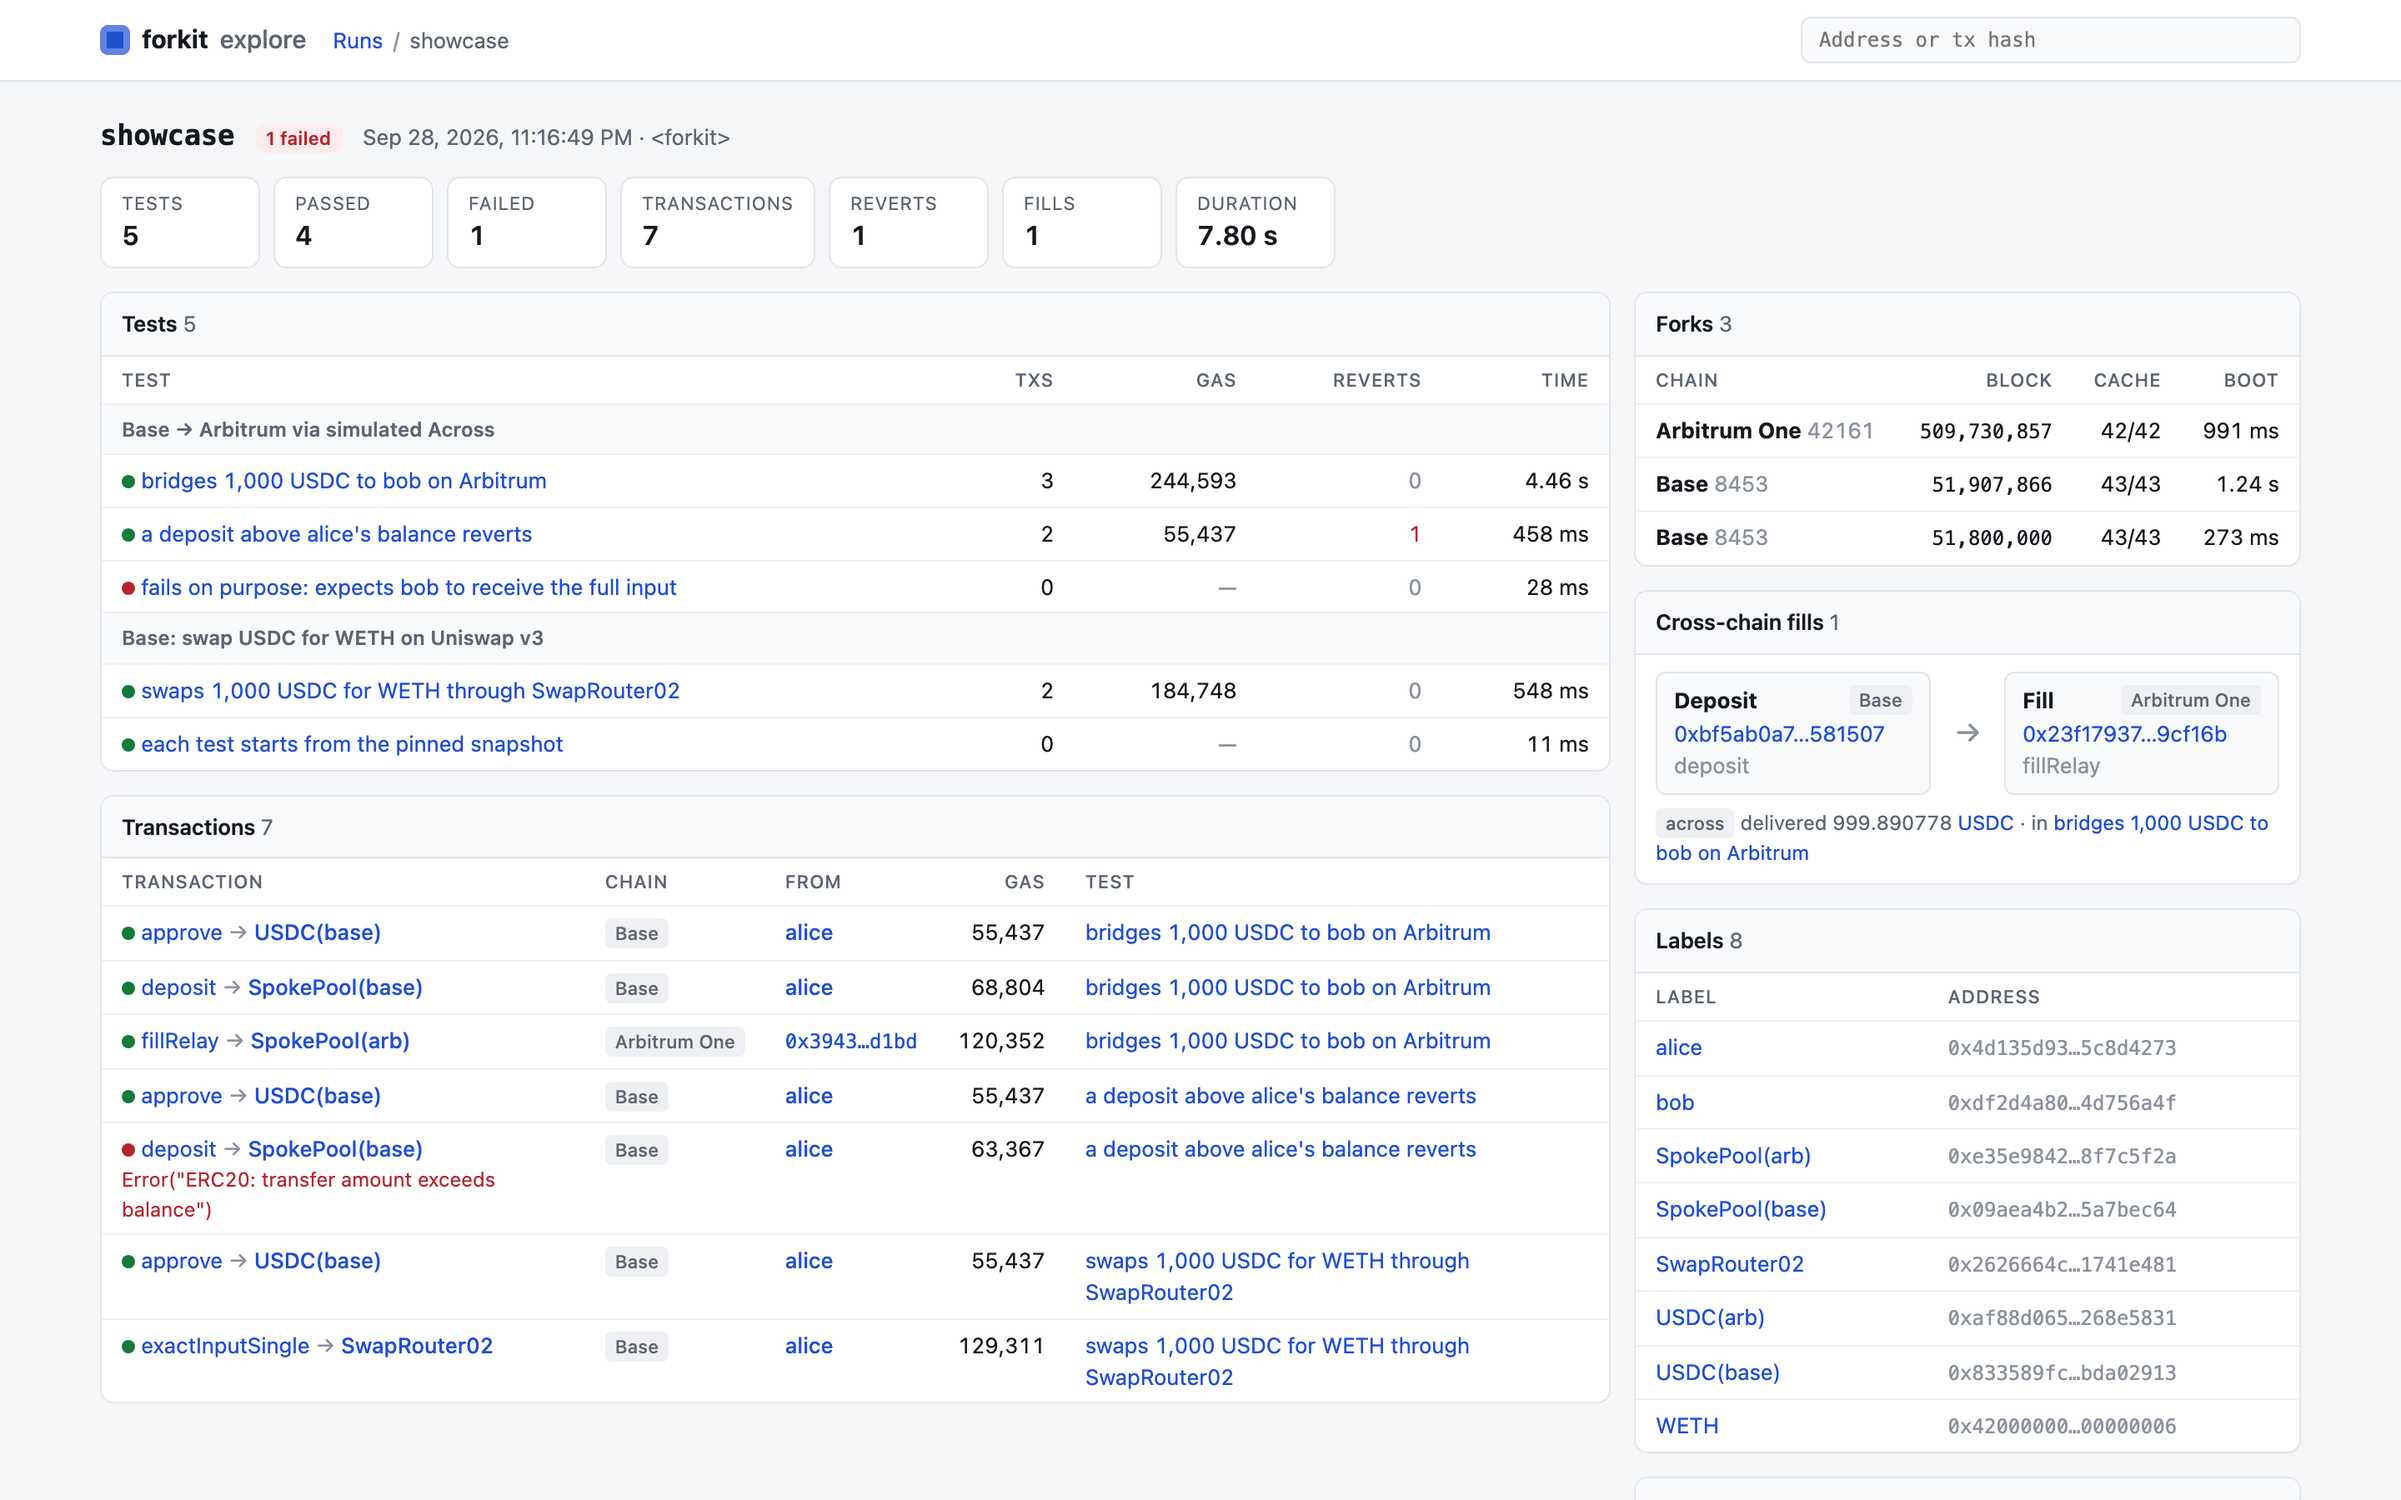
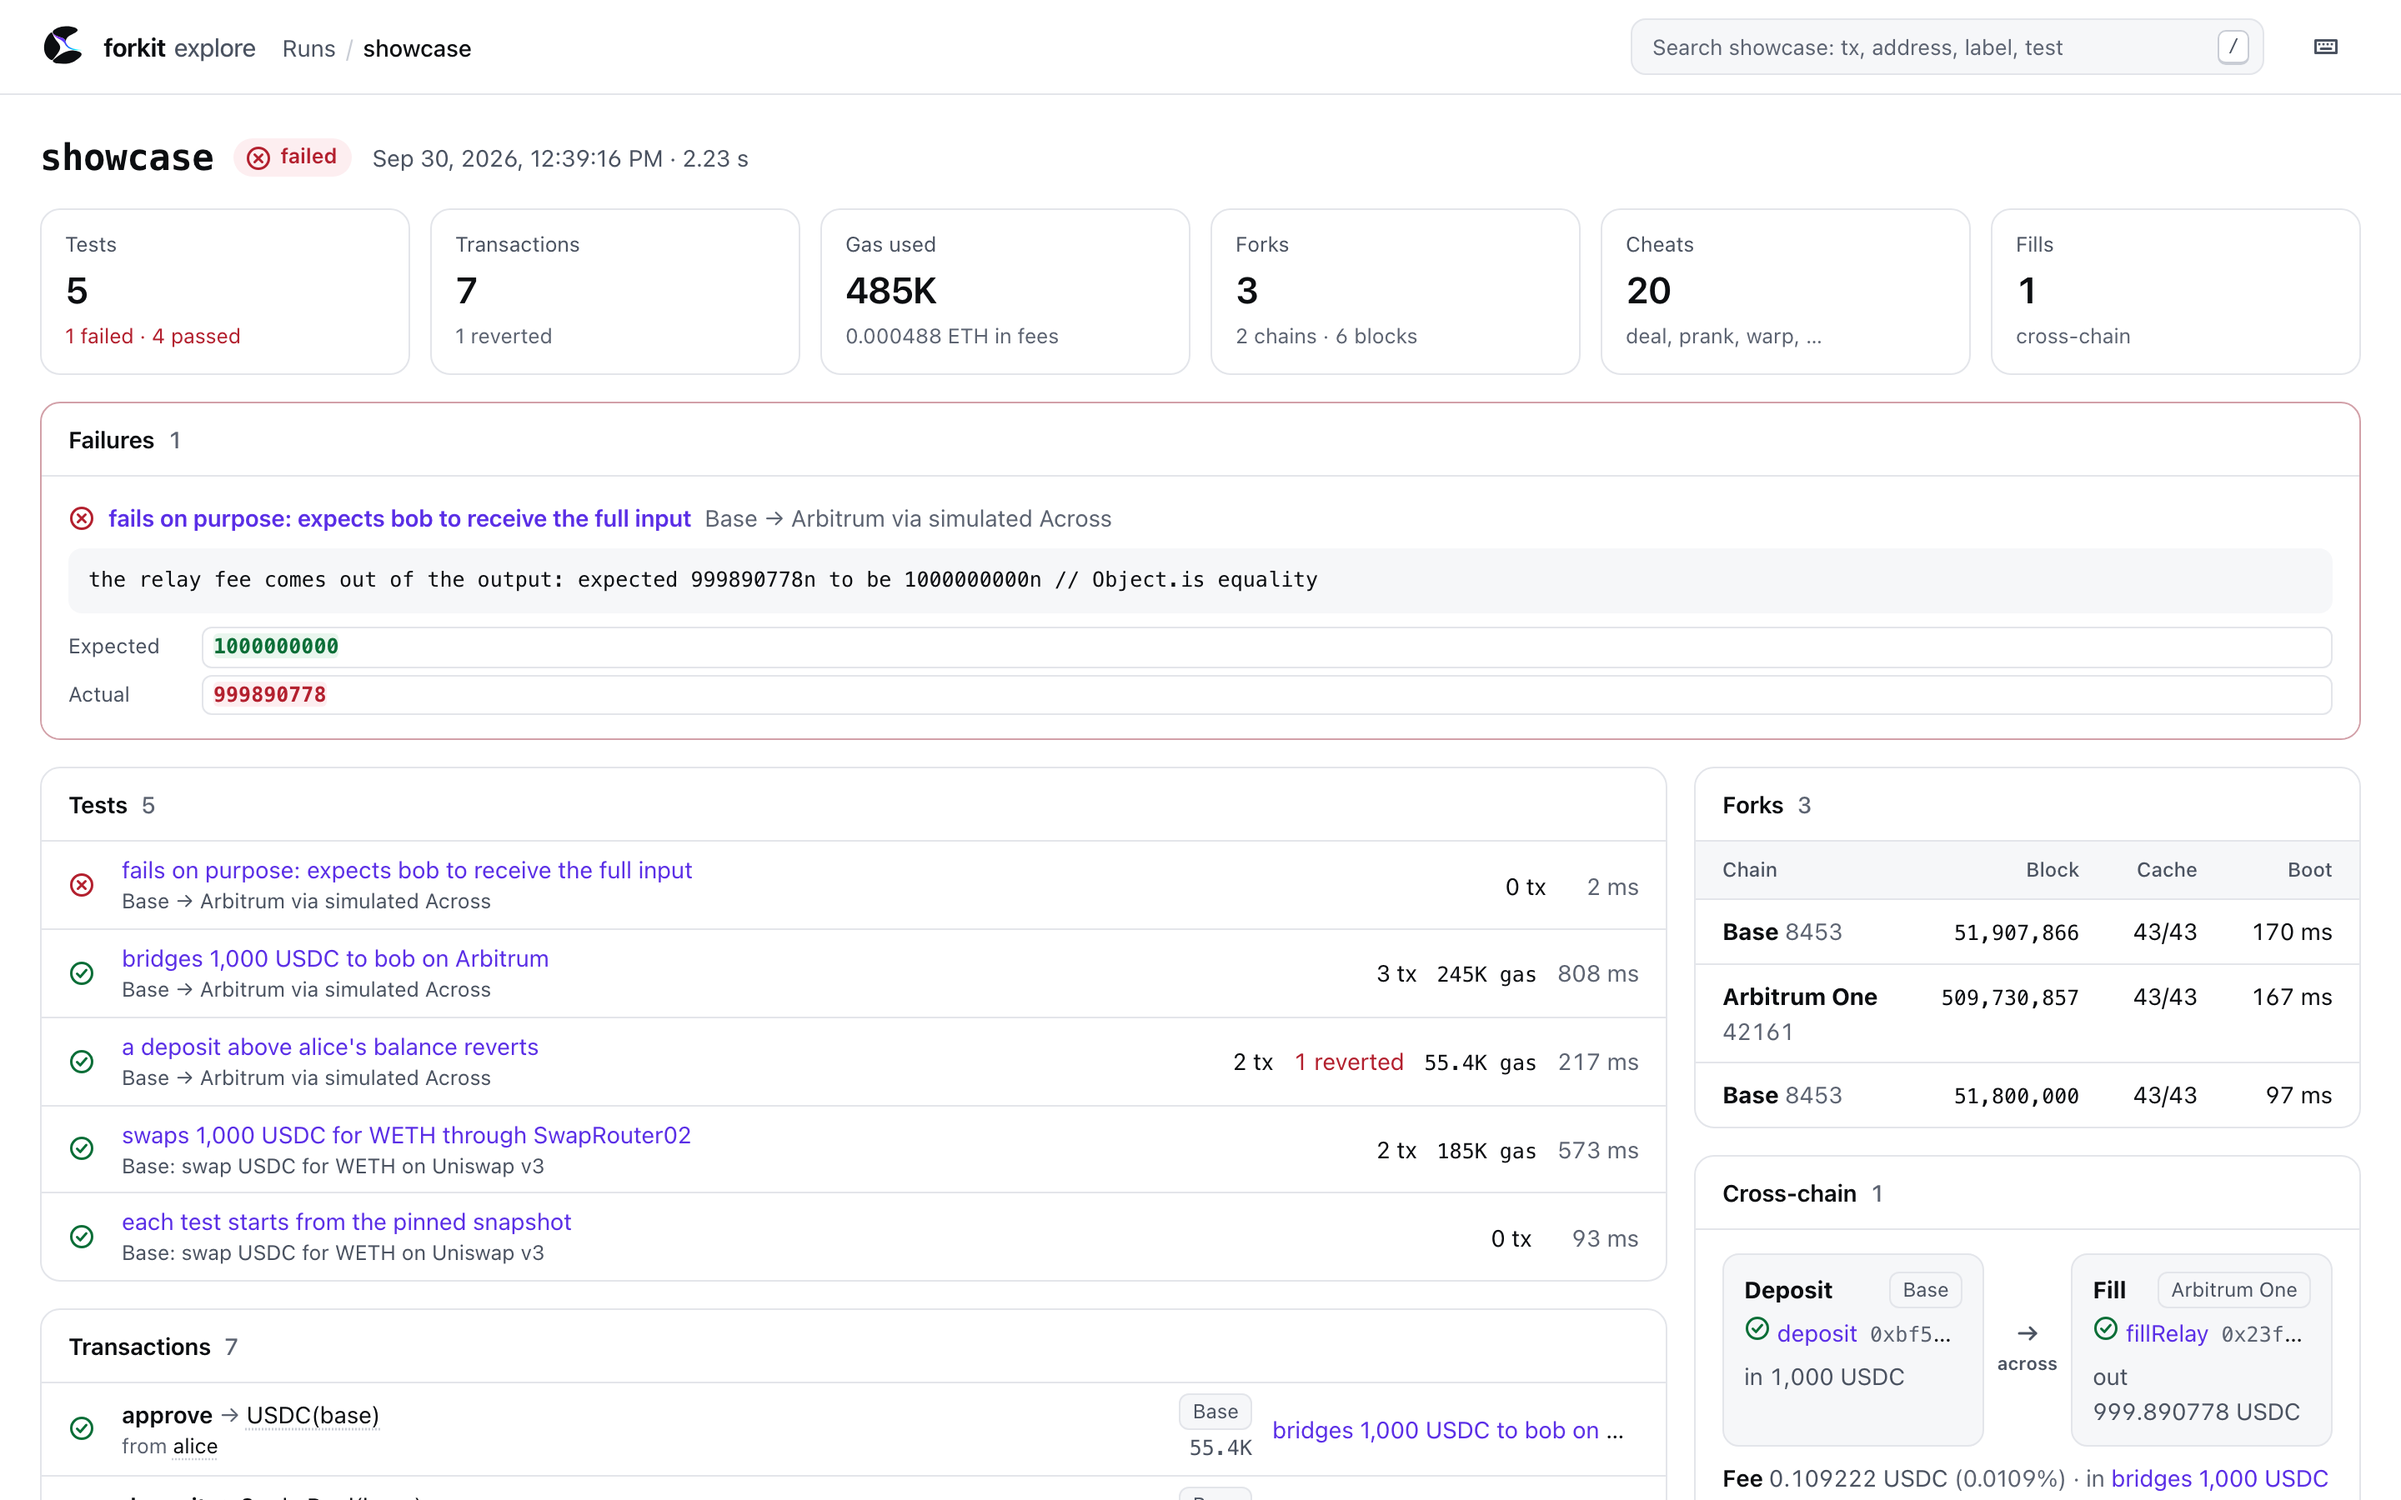
fix(site): explorer v2 screenshots on the home page (#2)
The home page still showed explorer v1: site/public/explore/*.png were
generated before the v2 UI (#1) merged. Regenerate them with
site/tools/build-assets.ts.

shots.ts framed v1's layout. On v2 its transaction shot was the overview
table with the call tree cropped off the bottom, and its phone shot spent
half the screen on stat tiles. Each shot is now framed on the feature it is
there to show, and the script fails if a view stops putting that feature at
the top of the screen:

- explore-tx-1440.png: the call tree of the SwapRouter02 swap (ten frames,
  a gas bar on each, events in place) with the frame inspector. It opens
  the transaction with `?section=trace`. The swap replaces the deposit: its
  tree is the richest in the showcase record, where the deposit's has four
  frames and leaves the tree column half empty.
- explore-1440.png: the run overview, failures first. Same URL as before.
- explore-test-390.png: the timeline of the bridge test, scrolled to the
  panel, so the screen is a run of steps and not the tiles above them.

The browser's locale and time zone are pinned (en-US, UTC): the explorer
prints times in the browser's own, so the PNGs depended on the machine that
made them. Two runs now give byte-identical files.

The transaction caption and alt text said the shot shows the cross-chain
fill. A swap has none, so they describe what it does show. The other two
captions are still true. shots.json is unchanged (same viewports) and
[…]

diff --git a/packages/forkit/test/site/shots.ts b/packages/forkit/test/site/shots.ts
@@ -1,7 +1,14 @@
 /**
  * Explorer screenshots for the site (site/public/explore), run by site/tools/build-assets.ts:
  * `bun test/site/shots.ts <out dir>`. Viewport-sized (not full-page) captures of the showcase
- * run record, so each one reads as a single screen on the page.
+ * run record, so each one reads as a single screen on the page. Each is framed on the feature it
+ * is there to show, and the script fails when a view no longer puts that feature at the top of
+ * the screen:
+ *
+ * - explore-tx-1440.png: a swap's call tree, with a gas bar on every frame, events where they
+ *   fired, and the inspector for the selected frame.
+ * - explore-1440.png: the run overview, failures first.
+ * - explore-test-390.png: a test's timeline on a phone.
  */
 import { join, resolve } from "node:path";
 import { chromium } from "playwright";
@@ -12,31 +19,82 @@ const out = process.argv[2];
 if (out === undefined) throw new Error("usage: bun test/site/shots.ts <out dir>");
 const FIXTURE = resolve(import.meta.dirname, "../fixtures/explore/showcase.json");
 
+/** Space above a panel that a shot scrolls to. */
+const PAD = 12;
+
+interface Shot {
+  name: string;
+  hash: string;
+  width: number;
+  /** The panel the shot is for: it has to end up in the top half of the screen. */
+  feature: string;
+  /** Scroll the feature to the top of the screen first, for a view with no deep link to it. */
+  scroll?: true;
+}
+
 const server = await startExploreServer({ files: [FIXTURE] });
 const browser = await chromium.launch();
 try {
   const run = (await (await fetch(`${server.url}api/runs/showcase`)).json()) as RunRecord;
-  const deposit = run.txs.find((t) => t.call?.name === "deposit" && t.status === "success");
+  // The swap has the richest call tree in the record: ten frames, three call types, events inline.
+  const swap = run.txs.find((t) => t.call?.name === "exactInputSingle" && t.status === "success");
   const bridgeTest = run.tests.find((t) => t.name.startsWith("bridges"));
-  if (deposit === undefined || bridgeTest === undefined) {
-    throw new Error("the showcase record has no bridge test or deposit");
+  if (swap === undefined || bridgeTest === undefined) {
+    throw new Error("the showcase record has no bridge test or swap");
   }
-  const shots = [
-    { name: "explore-tx-1440.png", hash: `#/run/showcase/tx/${deposit.id}`, width: 1440 },
-    { name: "explore-1440.png", hash: "#/run/showcase", width: 1440 },
-    { name: "explore-test-390.png", hash: `#/run/showcase/test/${bridgeTest.key}`, width: 390 },
+  const shots: Shot[] = [
+    {
+      name: "explore-tx-1440.png",
+      // `?section=trace` opens a transaction scrolled to its call tree.
+      hash: `#/run/showcase/tx/${swap.id}?section=trace`,
+      width: 1440,
+      feature: "#trace",
+    },
+    { name: "explore-1440.png", hash: "#/run/showcase", width: 1440, feature: "#failures" },
+    {
+      name: "explore-test-390.png",
+      hash: `#/run/showcase/test/${bridgeTest.key}`,
+      width: 390,
+      feature: "#timeline",
+      // On a phone the tiles above the timeline take half the screen: scroll past them.
+      scroll: true,
+    },
   ];
   for (const shot of shots) {
     const phone = shot.width < 600;
+    const height = phone ? 844 : 900;
     const context = await browser.newContext({
-      viewport: { width: shot.width, height: phone ? 844 : 900 },
+      viewport: { width: shot.width, height },
       deviceScaleFactor: 2,
       colorScheme: "light",
+      // The explorer prints times in the browser's locale and zone: pin both, so the PNGs do not
+      // depend on the machine that made them.
+      locale: "en-US",
+      timezoneId: "UTC",
     });
     const page = await context.newPage();
     await page.goto(`${server.url}${shot.hash}`);
     await page.locator(".page-head h1").first().waitFor();
     await page.waitForLoadState("networkidle");
+    // Scripts are strings: this file is typed without the DOM library.
+    const feature = `document.querySelector(${JSON.stringify(shot.feature)})`;
+    if (shot.scroll) {
+      await page.evaluate(
+        `window.scrollTo(0, ${feature}.getBoundingClientRect().top + scrollY - ${PAD})`,
+      );
+    }
+    await page
+      .waitForFunction(
+        `(() => {
+          const box = ${feature}?.getBoundingClientRect();
+          return box !== undefined && box.top >= 0 && box.top <= ${height / 2};
+        })()`,
+        undefined,
+        { timeout: 5_000 },
+      )
+      .catch(() => {
+        throw new Error(`${shot.name}: ${shot.feature} is not at the top of the screen`);
+      });
     await page.screenshot({ path: join(out, shot.name) });
     await context.close();
   }

diff --git a/site/src/components/Explorer.tsx b/site/src/components/Explorer.tsx
@@ -4,8 +4,8 @@ import shots from "../generated/shots.json";
 const VIEWS = [
   {
     file: "explore-tx-1440.png",
-    alt: "forkit explore showing a transaction: its decoded call, call trace, events and the cross-chain fill it led to",
-    caption: "A transaction: decoded call, call trace, events, and the cross-chain fill it led to.",
+    alt: "forkit explore showing a swap's call tree: each call decoded, with a gas bar, the events it emitted in place, and an inspector for the selected call",
+    caption: "A transaction: decoded call tree, gas per call, events in place, and an inspector.",
   },
   {
     file: "explore-1440.png",
